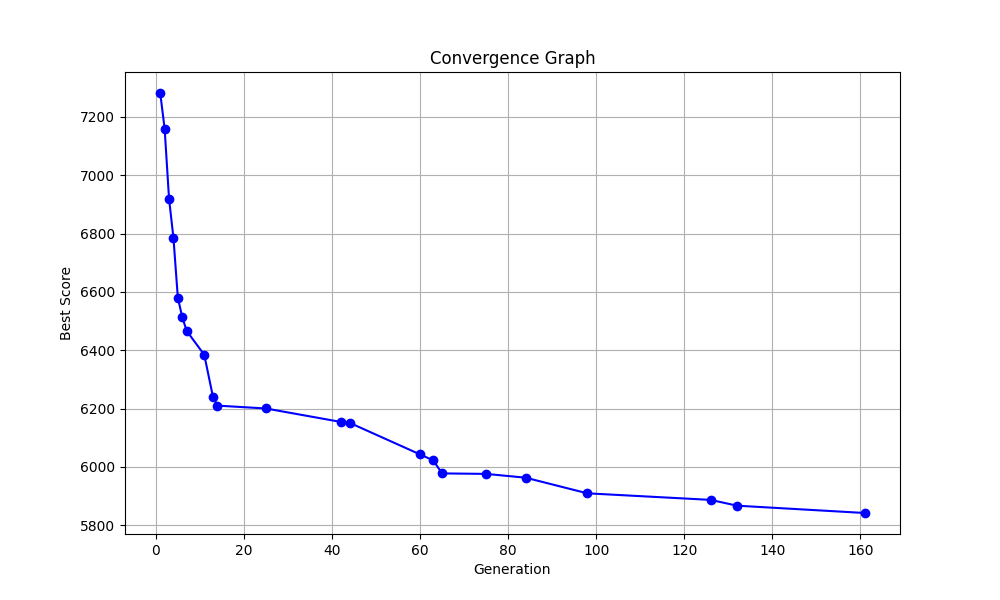
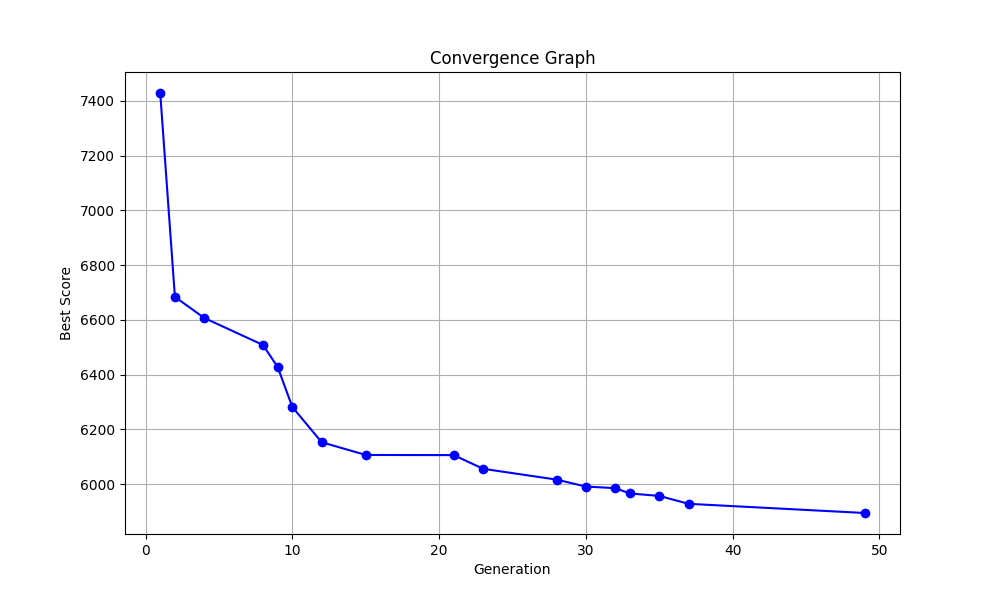
ammon fixed warm_start

diff --git a/warm_start.py b/warm_start.py
@@ -2,76 +2,86 @@ import numpy as np
 import pickle
 from functions import print_keyboard_layout
 
-
-FILENAME = "Optimization_Project/warm_start_data.npy"
+INDIVIDUALS_FILE = "Optimization_Project/warm_start_individuals.npy"
+SCORES_FILE = "Optimization_Project/warm_start_scores.npy"
+COUNTERS_FILE = "Optimization_Project/warm_start_counters.npy"
 MAX_PARENTS = 100  # Keep only the top 100 individuals
 
 def load_warm_start():
-    """Load the warm start list from a file as a NumPy array."""
+    """Load individuals, scores, and counters from separate files."""
     try:
-        parents = np.load(FILENAME, allow_pickle=True)
-        if parents.ndim == 0:  # Handle cases where loading a single object
-            return np.array([], dtype=object)
-        return parents
+        individuals = np.load(INDIVIDUALS_FILE, allow_pickle=True)
+        scores = np.load(SCORES_FILE, allow_pickle=True)
+        counters = np.load(COUNTERS_FILE, allow_pickle=True)
+        return individuals, scores, counters
     except FileNotFoundError:
-        return np.array([], dtype=object)  # Return empty array if no file exists
+        return np.array([], dtype=object), np.array([], dtype=float), np.array([], dtype=int)
 
-def save_warm_start(parents):
-    """Save the top 100 parents to a file."""
-    np.save(FILENAME, parents, allow_pickle=True)
+def save_warm_start(individuals, scores, counters):
+    """Save individuals, scores, and counters to separate files."""
+    np.save(INDIVIDUALS_FILE, individuals, allow_pickle=True)
+    np.save(SCORES_FILE, scores, allow_pickle=True)
+    np.save(COUNTERS_FILE, counters, allow_pickle=True)
 
-def update_warm_start(new_individual):
-    """Insert a new individual if it's better than the worst in the list."""
-    parents = load_warm_start()
+def update_warm_start(new_individual, new_score, new_counter):
+    """Insert a new individual, score, and counter if it's better than the worst in the list."""
+    individuals, scores, counters = load_warm_start()
 
-    # Ensure parents is a 2D object array for correct stacking
-    if parents.size == 0:
-        parents = np.array([new_individual], dtype=object)  # Treat new_individual as an object
-    else:
-        # Stack the new individual properly
-        parents = np.vstack([parents, new_individual])
+    # Append the new individual, score, and counter
+    individuals = np.append(individuals, [new_individual], axis=0) if individuals.size > 0 else np.array([new_individual], dtype=object)
+    scores = np.append(scores, new_score)
+    counters = np.append(counters, new_counter)
 
-    # Keep only the best 100 individuals (sorted by fitness)
-    if parents.shape[0] > MAX_PARENTS:
-        # Sort by fitness (assuming fitness is at index 1)
-        sorted_indices = np.argsort([p[1] for p in parents])  
-        parents = parents[sorted_indices[:MAX_PARENTS]]  # Keep top 100
+    # Sort by scores (ascending) on every run
+    sorted_indices = np.argsort(scores)
+    individuals = individuals[sorted_indices]
+    scores = scores[sorted_indices]
+    counters = counters[sorted_indices]
 
-    save_warm_start(parents)
+    # Keep only the best 100 individuals if exceeding MAX_PARENTS
+    if len(scores) > MAX_PARENTS:
+        individuals = individuals[:MAX_PARENTS]
+        scores = scores[:MAX_PARENTS]
+        counters = counters[:MAX_PARENTS]
+
+    save_warm_start(individuals, scores, counters)
     print("Updated warm start list")
 
-
-
 def stats_warm_start():
-    parents = load_warm_start()
+    individuals, scores, counters = load_warm_start()
 
-    if parents.size == 0:
+    if len(scores) == 0:
         raise ValueError("Warm start list is empty.")
-    elif parents.size == 1:
+    elif len(scores) == 1:
         raise ValueError("Warm start list has only one individual.")
-    else:    
+    else:
+        print("=" * 40)
         print("Warm Start List Statistics:")
-        print("Number of individuals:", len(parents))
-        print("Best individual:", parents[0][1])
+        print("=" * 40)
+        print(scores)
+        print("Number of individuals:", len(scores))
+        print("Best individual score:", scores[0])
+        print("Worst individual score:", scores[-1])
         print("Best keyboard layout:")
-        print_keyboard_layout(parents[0][0])  # Assuming p[0] is the keyboard layout
-        print("Worst individual:", parents[-1][1])
+        print_keyboard_layout(individuals[0]) 
         print("Worst keyboard layout:")
-        print_keyboard_layout(parents[-1][0])  # Assuming p[0] is the keyboard layout
-        print("Average fitness:", np.mean([p[1] for p in parents]))  # Assuming p[1] is fitness
+        print_keyboard_layout(individuals[-1])
+        print("Average fitness:", np.mean(scores))
 
 def population_warm_start(number_people, roll_dice_parent):
     population = []
-    parents = load_warm_start()
-    number_offspring = number_people // (len(parents) // 2)  # Calculate the number of offspring
+    individuals, scores, counters = load_warm_start()
+    number_offspring = number_people // (len(individuals) // 2)  # Calculate the number of offspring
+    if number_offspring == 0:
+        number_offspring = 1
+
     while len(population) < number_people:
         # Randomly select two parents
-        indices = np.random.choice(len(parents), size=2, replace=False)  # Sample indices
-        parent1, parent2 = parents[indices[0]], parents[indices[1]]  # Select parents using indices
+        indices = np.random.choice(len(individuals), size=2, replace=False)  # Sample indices
+        parent1, parent2 = individuals[indices[0]], individuals[indices[1]]  # Select parents using indices
 
         # Each pair produces number_offspring offspring
-        for _ in range(number_offspring):  # Each pair produces number_offspring offspring
-
+        for _ in range(number_offspring):
             # Create offspring from the two parents
             child = np.zeros_like(parent1)  # Initialize empty offspring
             used_keys = set()  # Track which key positions have been used
@@ -84,15 +94,15 @@ def population_warm_start(number_people, roll_dice_parent):
                     rand = np.random.rand()  # Generate a random number between 0 and 1
 
                     # Choose parent or mutation based on probability
-                    if rand < roll_dice_parent:  
+                    if rand < roll_dice_parent:
                         if tuple(parent1[i]) not in used_keys:
                             child[i] = parent1[i]  # Inherit from parent1
                             used_keys.add(tuple(parent1[i]))
-                    elif rand < (2 * roll_dice_parent):  
+                    elif rand < (2 * roll_dice_parent):
                         if tuple(parent2[i]) not in used_keys:
                             child[i] = parent2[i]  # Inherit from parent2
                             used_keys.add(tuple(parent2[i]))
-                    else:  
+                    else:
                         while True:  # Generate a random position if mutation occurs
                             x_val = np.random.randint(1, 9)
                             y_val = np.random.randint(1, 4) if x_val <= 2 else np.random.randint(1, 5)

diff --git a/functions.py b/functions.py
@@ -91,7 +91,7 @@ def print_keyboard_layout(x):
         row = f"{4-i}| " + " ".join(layout[i])  # Adjust row numbering
         print(row)
 
-def print_plot_results(data):
+def print_plot_results(data, print_results, convergence):
     # Unpack data
     best_individuals, best_scores, best_counters = data
 
@@ -99,28 +99,32 @@ def print_plot_results(data):
     previous_score = None
     generations = []
     filtered_best_scores = []
-    # Header for Results
-    print("\n" + "="*40)
-    print("Genetic Algorithm Optimization Results")
-    print("="*40 + "\n")
+
+    if print_results:
+        # Header for Results
+        print("\n" + "="*40)
+        print("Genetic Algorithm Optimization Results")
+        print("="*40 + "\n")
 
     for i, (score, counter, individual) in enumerate(zip(best_scores, best_counters, best_individuals)):
         if score != previous_score:
-            print(f"Generation {i + 1}:")
-            print(f"Best Score: {score}")
-            print(f"Counter: {counter}")
-            print_keyboard_layout(individual)
-            print()
+            if print_results:
+                print(f"Generation {i + 1}:")
+                print(f"Best Score: {score}")
+                print(f"Counter: {counter}")
+                print_keyboard_layout(individual)
+                print()
             previous_score = score
             generations.append(i + 1)  # Track the generation for the convergence graph
             filtered_best_scores.append(score)  # Track the best score only when it changes
 
-    plt.figure(figsize=(10, 6))
-    plt.plot(generations, filtered_best_scores, marker='o', linestyle='-', color='b')
-    plt.xlabel('Generation')
-    plt.ylabel('Best Score')
-    plt.title('Convergence Graph')
-    plt.grid(True)
-    plt.locator_params(axis='x', nbins=10)  # Limit the number of x-axis grid lines to 10
-    plt.savefig('Optimization_Project/plots/genetic_conv.png')  # Save the figure as genetic_conv.png
-    plt.show()
+    if convergence:
+        plt.figure(figsize=(10, 6))
+        plt.plot(generations, filtered_best_scores, marker='o', linestyle='-', color='b')
+        plt.xlabel('Generation')
+        plt.ylabel('Best Score')
+        plt.title('Convergence Graph')
+        plt.grid(True)
+        plt.locator_params(axis='x', nbins=10)  # Limit the number of x-axis grid lines to 10
+        plt.savefig('Optimization_Project/plots/genetic_conv.png')  # Save the figure as genetic_conv.png
+        plt.show()

diff --git a/RUNME.py b/RUNME.py
@@ -27,12 +27,17 @@ from warm_start import update_warm_start, stats_warm_start
 # Optimize
 if __name__ == '__main__': # Necessary to run multiprocessing on Windows
   
-    warm_start = False
+    warm_start = True               # True - generates first population from best previous individuals
+    print_while_running = False     # True - prints generation, score, and layout data while running
+    print_results = False           # True - prints results after running
+    convergence = False             # True - plots convergence graph
     # if warm_start:
 
-    # stats_warm_start()
-    data = genetic_algorithm(obj, warm_start, num, perc, roll, tol, gen_limit, string)
-    best_individuals, best_scores, best_counters = data
-    best_data = [best_individuals[-1], best_scores[-1], best_counters[-1]]
-    update_warm_start(best_data)
-    print_plot_results(data)
+    stats_warm_start()
+    for i in range(50):
+        data = genetic_algorithm(obj, warm_start, num, perc, roll, tol, gen_limit, string, print_while_running)
+        best_individuals, best_scores, best_counters = data
+        update_warm_start(best_individuals[-1], best_scores[-1], best_counters[-1])
+        print_plot_results(data, print_results, convergence)
+        print("Generation:", i + 1)
+    stats_warm_start()

diff --git a/genetic_algorithm.py b/genetic_algorithm.py
@@ -8,7 +8,7 @@ from functions import generate_population, generate_offspring, print_keyboard_la
 from warm_start import population_warm_start
 
 
-def genetic_algorithm_optimized(f, warm_start, num, perc, roll, tol, gen_limit, string_index):
+def genetic_algorithm_optimized(f, warm_start, num, perc, roll, tol, gen_limit, string_index, print_while_running):
     number_people = num[0]
     number_offspring = num[1]
     perc_clone = perc[0]
@@ -52,9 +52,10 @@ def genetic_algorithm_optimized(f, warm_start, num, perc, roll, tol, gen_limit, 
         if best_score < history_best_score:
             history_best_score = best_score
             best_score_unchanged_count = 0
-            print("Generation:", gen_counter)
-            print("Best Score:", best_score)
-            print_keyboard_layout(sorted_population[0])
+            if print_while_running:
+                print("Generation:", gen_counter)
+                print("Best Score:", best_score)
+                print_keyboard_layout(sorted_population[0])
         else:
             best_score_unchanged_count += 1
 

diff --git a/parameters.py b/parameters.py
@@ -2,14 +2,14 @@
 import numpy as np
 
 # Parameters
-number_of_people = 10 # Number of people in the population
+number_of_people = 50 # Number of people in the population
 number_of_offspring = 10 # Number of offspring per pair of parents
 
 percentage_clone = 0.1  # Percentage of the population to clone (top 10%)
 percentage_parents = 0.2  # Percentage of the population to use as parents (top 50%)
 percentage_offspring = 0.9  # Percentage of the population to be offspring (90% of the population)
 
-tol = 50
+tol = 100
 
 gen_limit = 100000
 
